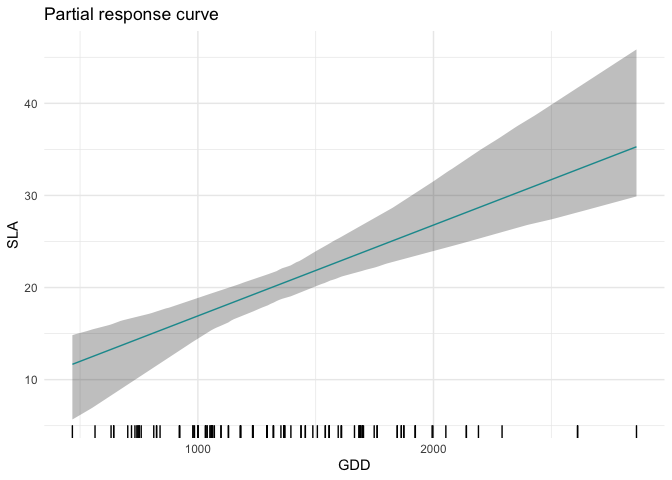
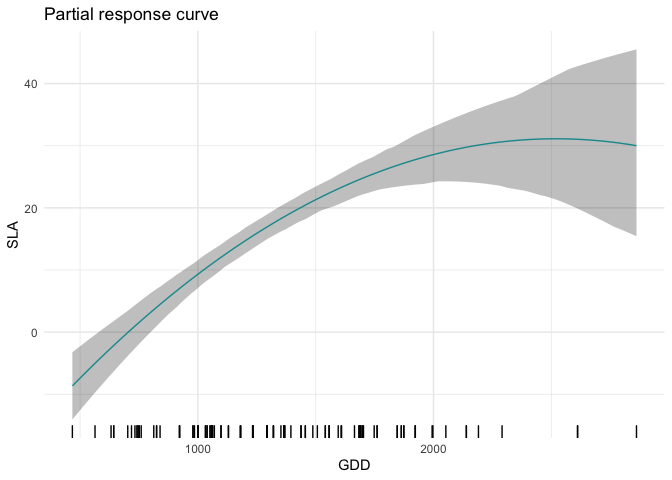
new formula vignette

diff --git a/README.md b/README.md
@@ -62,36 +62,11 @@ m = jtdm_fit(Y=Y, X=X, formula=as.formula("~GDD+FDD+forest"),  adapt = 10, burni
 
     ## module dic loaded
 
-    ## Compiling rjags model...
-    ## Calling the simulation using the rjags method...
-    ## Note: the model did not require adaptation
-    ## Burning in the model for 100 iterations...
-    ## Running the model for 100 iterations...
-    ## Extending 100 iterations for pD/DIC estimates...
-    ## Simulation complete
-    ## Calculating summary statistics...
-    ## Calculating the Gelman-Rubin statistic for 21 variables....
-    ## Note: Unable to calculate the multivariate psrf
-    ## Finished running the simulation
-
 ``` r
 # Inferred parameters
 getB(m)$Bmean
-```
-
-    ##        (Intercept)         GDD       FDD    forest
-    ## SLA       8.008574 0.010900906 0.4912318 10.621769
-    ## LNC      20.383691 0.001789419 0.1440694  2.889193
-    ## Height   10.369534 0.018586089 0.1465588  2.981464
-
-``` r
 get_sigma(m)$Smean
 ```
-
-    ##              SLA       LNC    Height
-    ## SLA     77.05206 17.760589 -12.61709
-    ## LNC     17.76059  9.261374   1.04773
-    ## Height -12.61709  1.047730  94.63345
 
 Trait-environment relationships
 
@@ -112,24 +87,25 @@ ellipse_plot(m,indexTrait = c("SLA","LNC"),indexGradient="GDD")
 Computes joint probabilities of both SLA and LNC to be greater than 20
 in a high altitude site. This measures the relative suitability of
 communities where both SLA and LNC are higher than 20 in a high altitude
-site
+site.
 
 ``` r
 joint_trait_prob(m,indexTrait=c("SLA","LNC"), Xnew=X["VCHA_2940",], bounds=list(c(20,Inf),c(20,Inf)))$PROBmean
 ```
 
     ##         1 
-    ## 0.1057429
+    ## 0.1568279
 
-Unsurprisingly, the probability is low. Then, we compute this
-probability along the GDD gradient
+Unsurprisingly, the probability is low. Then, we compute how this
+probability varies along the GDD gradient.
 
 ``` r
 joint=joint_trait_prob_gradient(m,indexTrait=c("SLA","LNC"), indexGradient="GDD", bounds=list(c(mean(Y[,"SLA"]),Inf),c(mean(Y[,"SLA"]),Inf)))
 ```
 
-And plot it
+And we plot it.
 
-![](README_files/figure-gfm/unnamed-chunk-6-1.png)<!-- --> As climatic
-conditions become more favourable (i.e. GDD increases), the probability
-of having high values of both traits increases.
+![](README_files/figure-gfm/unnamed-chunk-6-1.png)<!-- -->
+
+As climatic conditions become more favourable (i.e. GDD increases), the
+probability of having high values of both traits increases.

diff --git a/vignette/vignette.md b/vignette/vignette.md
@@ -43,8 +43,11 @@ library(devtools)
 install_github("giopogg/jtdm")
 ```
 
-    ## Skipping install of 'jtdm' from a github remote, the SHA1 (2d97b3e5) has not changed since last install.
-    ##   Use `force = TRUE` to force installation
+    ## Downloading GitHub repo giopogg/jtdm@HEAD
+
+    ## Installing 1 packages: cli
+
+    ## installation du package source 'cli'
 
 ``` r
 library(jtdm)
@@ -115,7 +118,7 @@ higher number of iterations.
 
 ``` r
 # Short MCMC to obtain a fast example: results are unreliable !
-m = jtdm_fit(Y=Y, X=X, formula=as.formula("~GDD+FDD+forest"),  adapt = 10, burnin = 100, sample = 100, n.chains = 2)
+m = jtdm_fit(Y=Y, X=X, formula=as.formula("~poly(GDD,2)+poly(FDD,2)+poly(GDD,2):forest+poly(FDD,2):forest"),  adapt = 10, burnin = 100, sample = 100, n.chains = 2)
 ```
 
 Once the model has ran, we should check for the convergence of the MCMC
@@ -174,14 +177,14 @@ predictions$R2
 ```
 
     ##       SLA       LNC    Height 
-    ## 0.4857956 0.2813487 0.4745638
+    ## 0.5846196 0.3494882 0.5201757
 
 ``` r
 predictions$RMSE
 ```
 
     ##      SLA      LNC   Height 
-    ## 8.487992 2.948744 9.577230
+    ## 7.637141 2.809050 9.140805
 
 We can evaluate the performances of the model using a K-fold
 cross-validation using the function `jtdmCV`
@@ -195,13 +198,13 @@ predictionsCV$R2
 ```
 
     ##       SLA       LNC    Height 
-    ## 0.5613550 0.2598376 0.5018175
+    ## 0.5101005 0.2333333 0.4774889
 
 ``` r
 predictionsCV$RMSE
 ```
 
-    ## [1] 8.078553 3.065515 9.537835
+    ## [1]  8.218728  3.063258 10.105508
 
 We can now analyse the inferred trait-environment relationships using
 the function `partial_response`, that computes and plots the partial
@@ -296,8 +299,8 @@ a high altitude site.
 joint_trait_prob(m,indexTrait=c("SLA","LNC"), Xnew=X["VCHA_2940",], bounds=list(c(20,Inf),c(20,Inf)))$PROBmean
 ```
 
-    ##         1 
-    ## 0.1107953
+    ##          1 
+    ## 0.09052488
 
 Unsurprisingly, the probability is low. Then, we compute how this
 probability vary along the GDD gradient using the function
